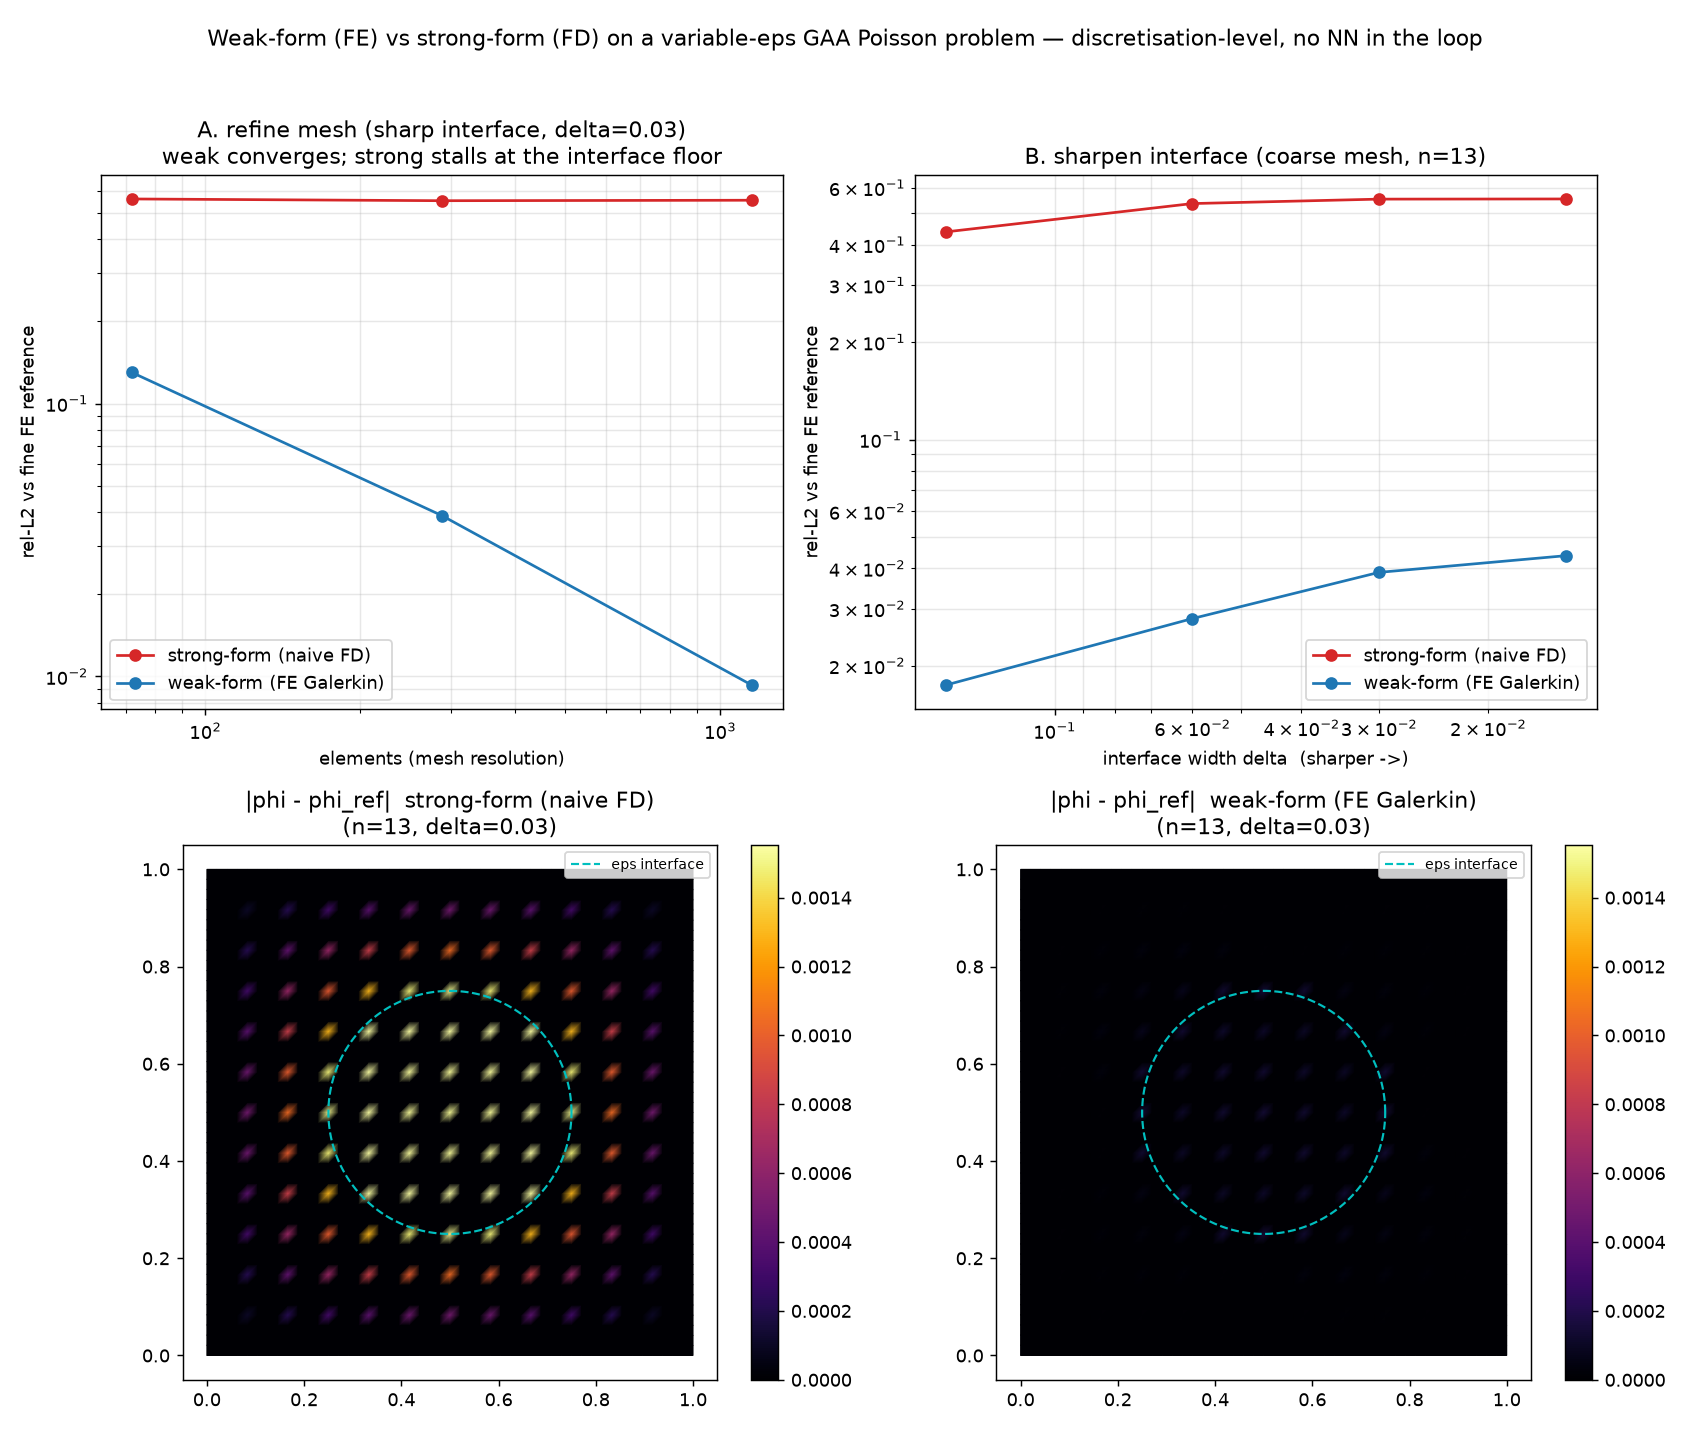
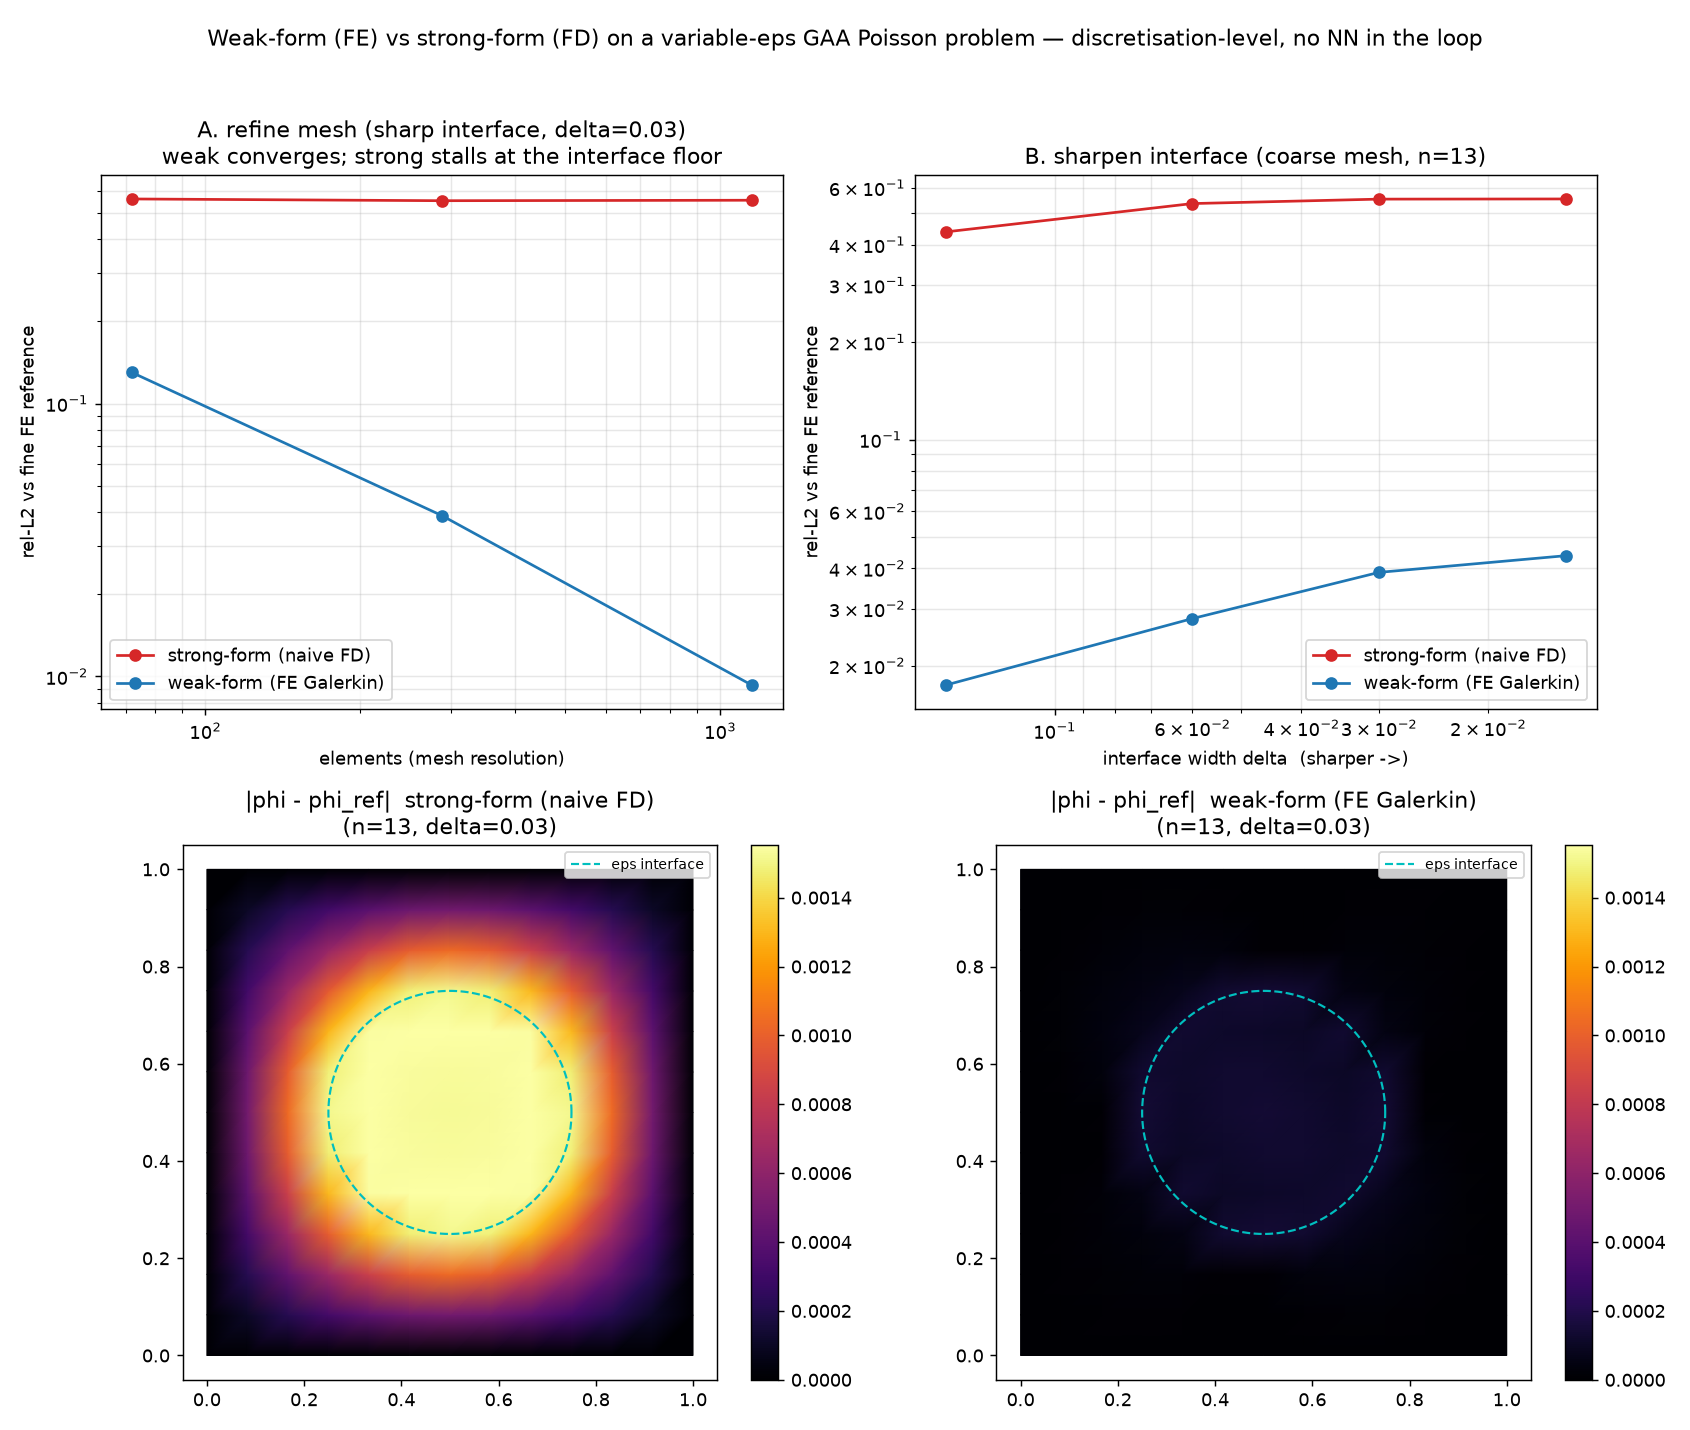
Address CodeRabbit review: fix error_indicator docstring, error-map, demo count
- pi_deeponet_fem_gaa.py: error_indicator claimed a Jacobi-preconditioned residual
  but returned the raw relative Galerkin residual, with the dinv argument dead.
  Dropped dinv (param, computation, call-site) and rewrote the docstring to describe
  the raw-residual indicator and its known over-estimation (matching the memo and the
  --tol calibration). Behaviour unchanged; figure unchanged (restored the committed
  PNG — the demo has mild run-to-run nondeterminism from GNN scatter).
- bench_weak_vs_strong.py: the spatial error map scattered coarse-mesh (n=13) errors
  into a fine-mesh (n=49) array and gouraud-shaded it, so ~93% of nodes read ~0 and
  the map misrepresented the field. Now plots err_w/err_s densely on the coarse mesh's
  own triangulation. Quantitative sweeps unchanged; regenerated figure.
- research/CONCEPT_...md: section 3 heading 4デモ -> 5デモ (table lists 5).

Ruff E702 (semicolon statements) left as-is: matches the pervasive style across the
repo (pi_deeponet_fem_gaa.py, train.py, ...) and there is no Ruff config or CI gate
enforcing it; splitting ~25 sites would diverge from surrounding code for no gate.

Claude-Session: https://claude.ai/code/session_01TbPwqgUS5oNeMha35iGnea

Changed region(s): [[0.1231, 0.6154, 0.4308, 0.9538], [0.6462, 0.6769, 0.8308, 0.8923]]

diff --git a/pi_deeponet_fem_gaa.py b/pi_deeponet_fem_gaa.py
@@ -231,13 +231,16 @@ def galerkin_residual(u, S, Kt, Mt, rho_t, free_mask):
     return (r.norm() ** 2) / (b.norm() ** 2 + 1e-12)
 
 
-def error_indicator(u, S, Kt, Mt, rho_t, free_mask, dinv):
-    """A-posteriori FE error estimator via a Jacobi-preconditioned residual.
+def error_indicator(u, S, Kt, Mt, rho_t, free_mask):
+    """A-posteriori indicator: relative L2 norm of the weak-form (Galerkin) residual.
 
-    The raw Galerkin residual r = K(uS) - M rho over-weights high-frequency error
-    because K is a (stiffness) derivative operator. One Jacobi step delta = D^{-1} r
-    (D = diag K) approximates the true error K^{-1} r = phi_exact - phi_pred without a
-    solve, so ||delta|| / ||phi_pred|| tracks the relative solution error cheaply.
+    Returns ||K(uS) - M rho|| / ||M rho|| over the free DOFs — the same assembled FE
+    residual used as the physics loss, reused here as a cheap deploy-time monitor.
+    Because K is a (stiffness) derivative operator it over-weights high-frequency
+    error, so this raw-residual ratio runs larger than the actual solution error;
+    the online tolerance (--tol) is calibrated against this scale, not against rel-L2.
+    A tighter estimate (energy-norm ||e||_K, or a few CG iterations on the residual)
+    is the documented follow-up in research/FEM_OPERATOR_LEARNING_GAA_IDEA.md.
     """
     r = ((Kt @ (u * S)) - (Mt @ rho_t))[free_mask]
     b = (Mt @ rho_t)[free_mask]
@@ -269,7 +272,6 @@ def main():
     # torch tensors (dense; the demo mesh is small)
     Kt = torch.tensor(K.toarray(), dtype=torch.float32)
     Mt = torch.tensor(M.toarray(), dtype=torch.float32)
-    dinv = 1.0 / torch.diag(Kt).clamp_min(1e-8)          # Jacobi preconditioner for the estimator
     coords = torch.tensor(nodes, dtype=torch.float32)
     free_mask = torch.tensor(free, dtype=torch.bool)
     # hard Dirichlet: exact 0/1 nodal mask (phi = 0 on boundary nodes, unshrunk interior)
@@ -341,7 +343,7 @@ def main():
 
         with torch.no_grad():
             u = model(feat, edge_index, coords, dirichlet_mask)
-        ind = error_indicator(u, S, Kt, Mt, rho_t, free_mask, dinv)
+        ind = error_indicator(u, S, Kt, Mt, rho_t, free_mask)
         ind_hist.append(ind)
 
         fired = ind > args.tol

diff --git a/bench_weak_vs_strong.py b/bench_weak_vs_strong.py
@@ -140,22 +140,23 @@ def main():
         strongB.append(rel_to_ref(ns, ps, tree, ref))
         print(f"[B] delta={d:.3f}  weak-FE {weakB[-1]:.4f}   strong-FD {strongB[-1]:.4f}")
 
-    # ---- spatial error map at one coarse+sharp case ----
-    tree, ref, ref_nodes = ref_tree(delta_A)
+    # ---- spatial error map at one coarse+sharp case (dense on the coarse mesh) ----
+    tree, ref, _ = ref_tree(delta_A)
+    nodes_B, tris_B, _ = build_mesh(n_B)
     nw, pw = fe_weak_solve(n_B, delta_A)
     ns, ps = fd_strong_solve(n_B, delta_A)
     _, iw = tree.query(nw)
     _, is_ = tree.query(ns)
-    err_w = np.zeros(len(ref_nodes)); err_w[iw] = np.abs(pw - ref[iw])
-    err_s = np.zeros(len(ref_nodes)); err_s[is_] = np.abs(ps - ref[is_])
+    err_w = np.abs(pw - ref[iw])    # length n_B**2, defined on nodes_B
+    err_s = np.abs(ps - ref[is_])   # length n_B**2, defined on nodes_B
 
     _plot(args.out, meshes, weakA, strongA, deltas, weakB, strongB,
-          args.n_ref, err_w, err_s, delta_A, n_B)
+          nodes_B, tris_B, err_w, err_s, delta_A, n_B)
     print(f"wrote {args.out}")
 
 
 def _plot(out, meshes, weakA, strongA, deltas, weakB, strongB,
-          n_ref, err_w, err_s, delta_A, n_B):
+          coarse_nodes, coarse_tris, err_w, err_s, delta_A, n_B):
     import matplotlib
     matplotlib.use("Agg")
     import matplotlib.pyplot as plt
@@ -181,8 +182,7 @@ def _plot(out, meshes, weakA, strongA, deltas, weakB, strongB,
     ax[0, 1].set_title(f"B. sharpen interface (coarse mesh, n={n_B})")
     ax[0, 1].legend(); ax[0, 1].grid(True, which="both", alpha=0.3)
 
-    rn, rt, _ = build_mesh(n_ref)
-    triang = Triangulation(rn[:, 0], rn[:, 1], rt)
+    triang = Triangulation(coarse_nodes[:, 0], coarse_nodes[:, 1], coarse_tris)
     vmax = float(max(err_w.max(), err_s.max()))
     t = np.linspace(0, 2 * np.pi, 200)
     for a, err, lab in ((ax[1, 0], err_s, "strong-form (naive FD)"),

diff --git a/research/CONCEPT_weakform_operator_learning_semiconductor.md b/research/CONCEPT_weakform_operator_learning_semiconductor.md
@@ -37,7 +37,7 @@ PI-DeepONet で置換**（背景整理: [`PI_DEEPONET_MC_ONLINE_LEARNING.md`](./
 
 ---
 
-## 3. 実証（4デモ・正直な結果）
+## 3. 実証（5デモ・正直な結果）
 
 | # | デモ | 主張 | 実測結果 |
 |---|---|---|---|
